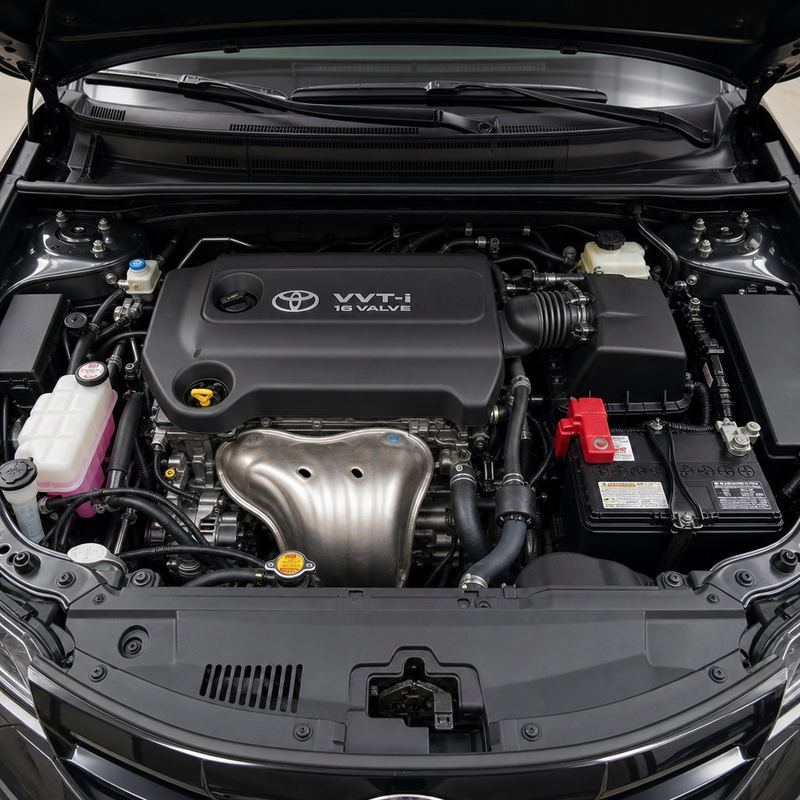
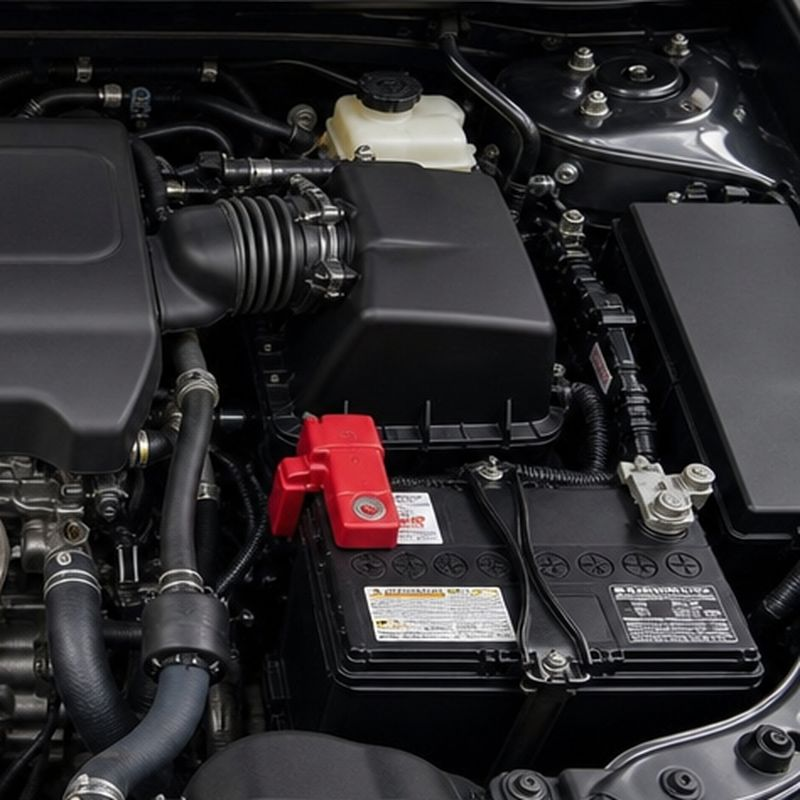
Eliminate all brand-risk photos from package cards: drop Bentley exterior, Audi interior and competitor-branded van shots entirely; crop Toyota badge out of engine bay photo and reflected text out of headlight photo; rebalance all 8 package cards across the remaining brand-free real photos

diff --git a/assets/apex-packages.js b/assets/apex-packages.js
@@ -109,7 +109,7 @@
           name: "Express Detail",
           subtitle: "Perfect for regular maintenance",
           price: 149,
-          img: "/service-mobile.jpg",
+          img: "/service-headlight.jpg",
           includes: [
             "Full exterior hand wash",
             "Spray wax for added shine",
@@ -130,7 +130,7 @@
           id: "complete",
           name: "Complete Detail",
           price: 249,
-          img: "/service-exterior.jpg",
+          img: "/service-ceramic.jpg",
           includes: [
             "Full exterior hand wash & wax",
             "Complete interior vacuum & wipe-down",
@@ -162,7 +162,7 @@
           id: "ext-refresh",
           name: "Exterior Refresh",
           price: 99,
-          img: "/service-exterior.jpg",
+          img: "/service-headlight.jpg",
           includes: [
             "Hand foam wash",
             "Wheel & tire cleaning",
@@ -205,7 +205,7 @@
           id: "int-refresh",
           name: "Interior Refresh",
           price: 129,
-          img: "/service-interior.jpg",
+          img: "/service-seats.jpg",
           includes: [
             "Full interior vacuum",
             "Dashboard, console & door cleaning",
